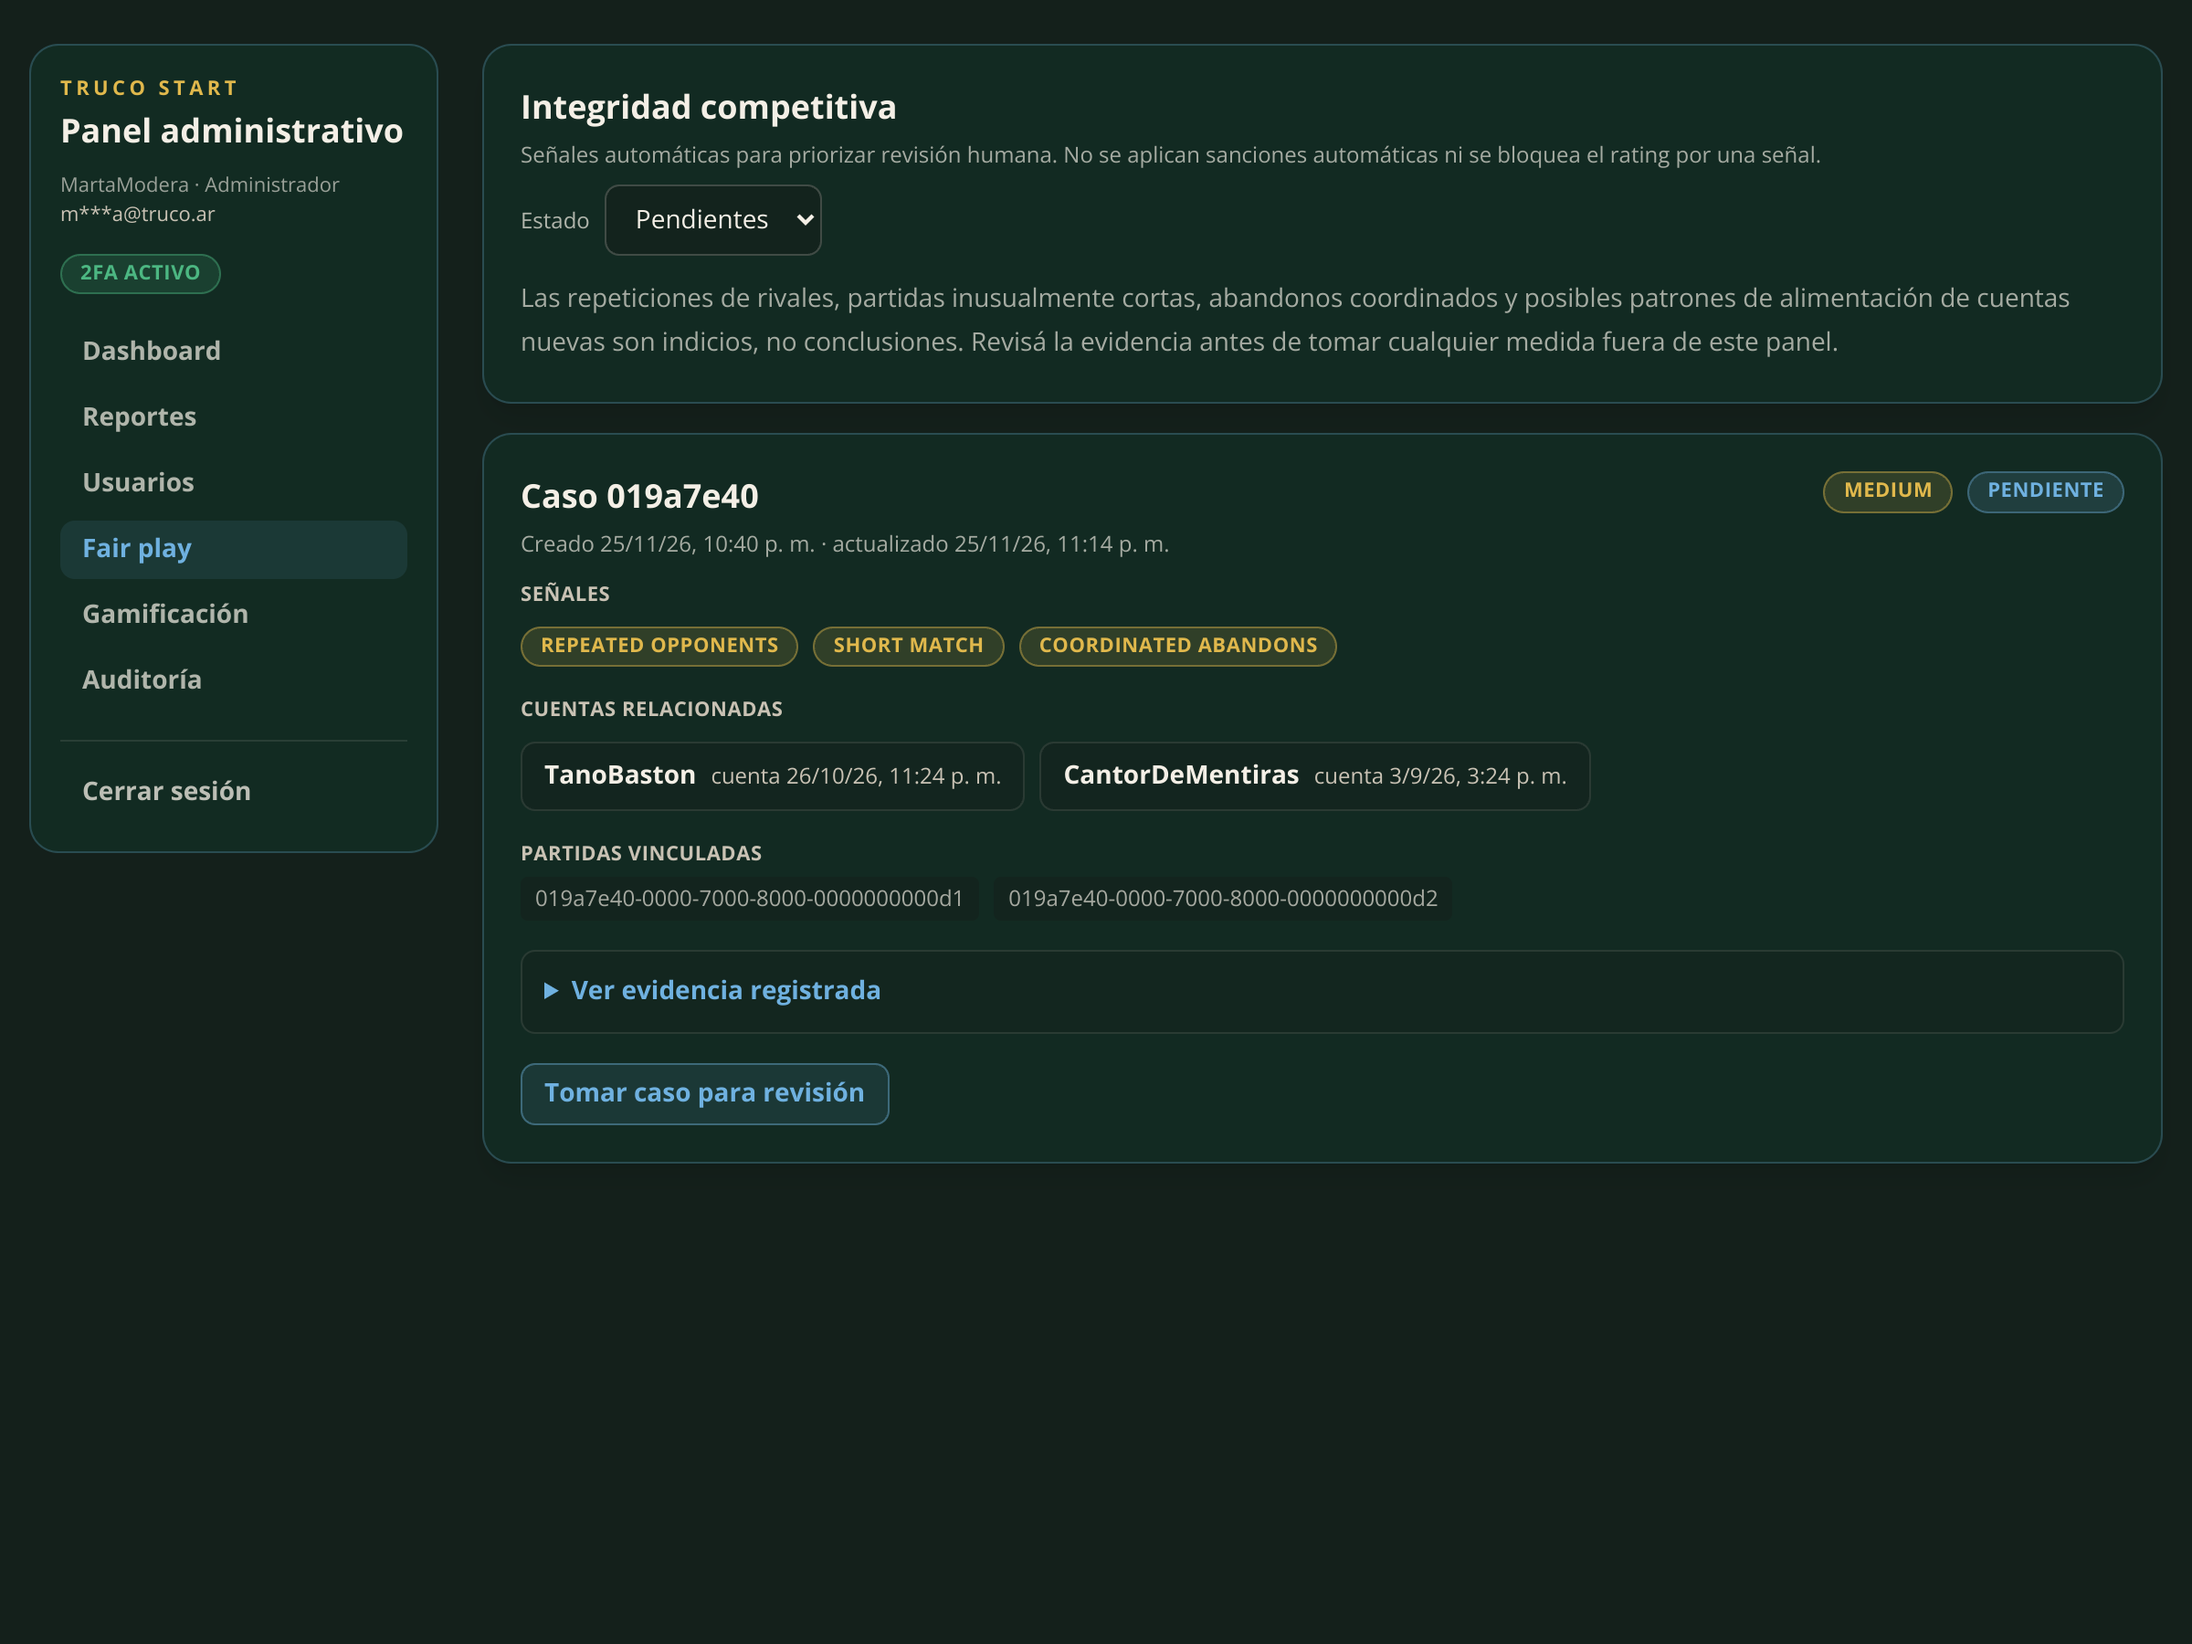
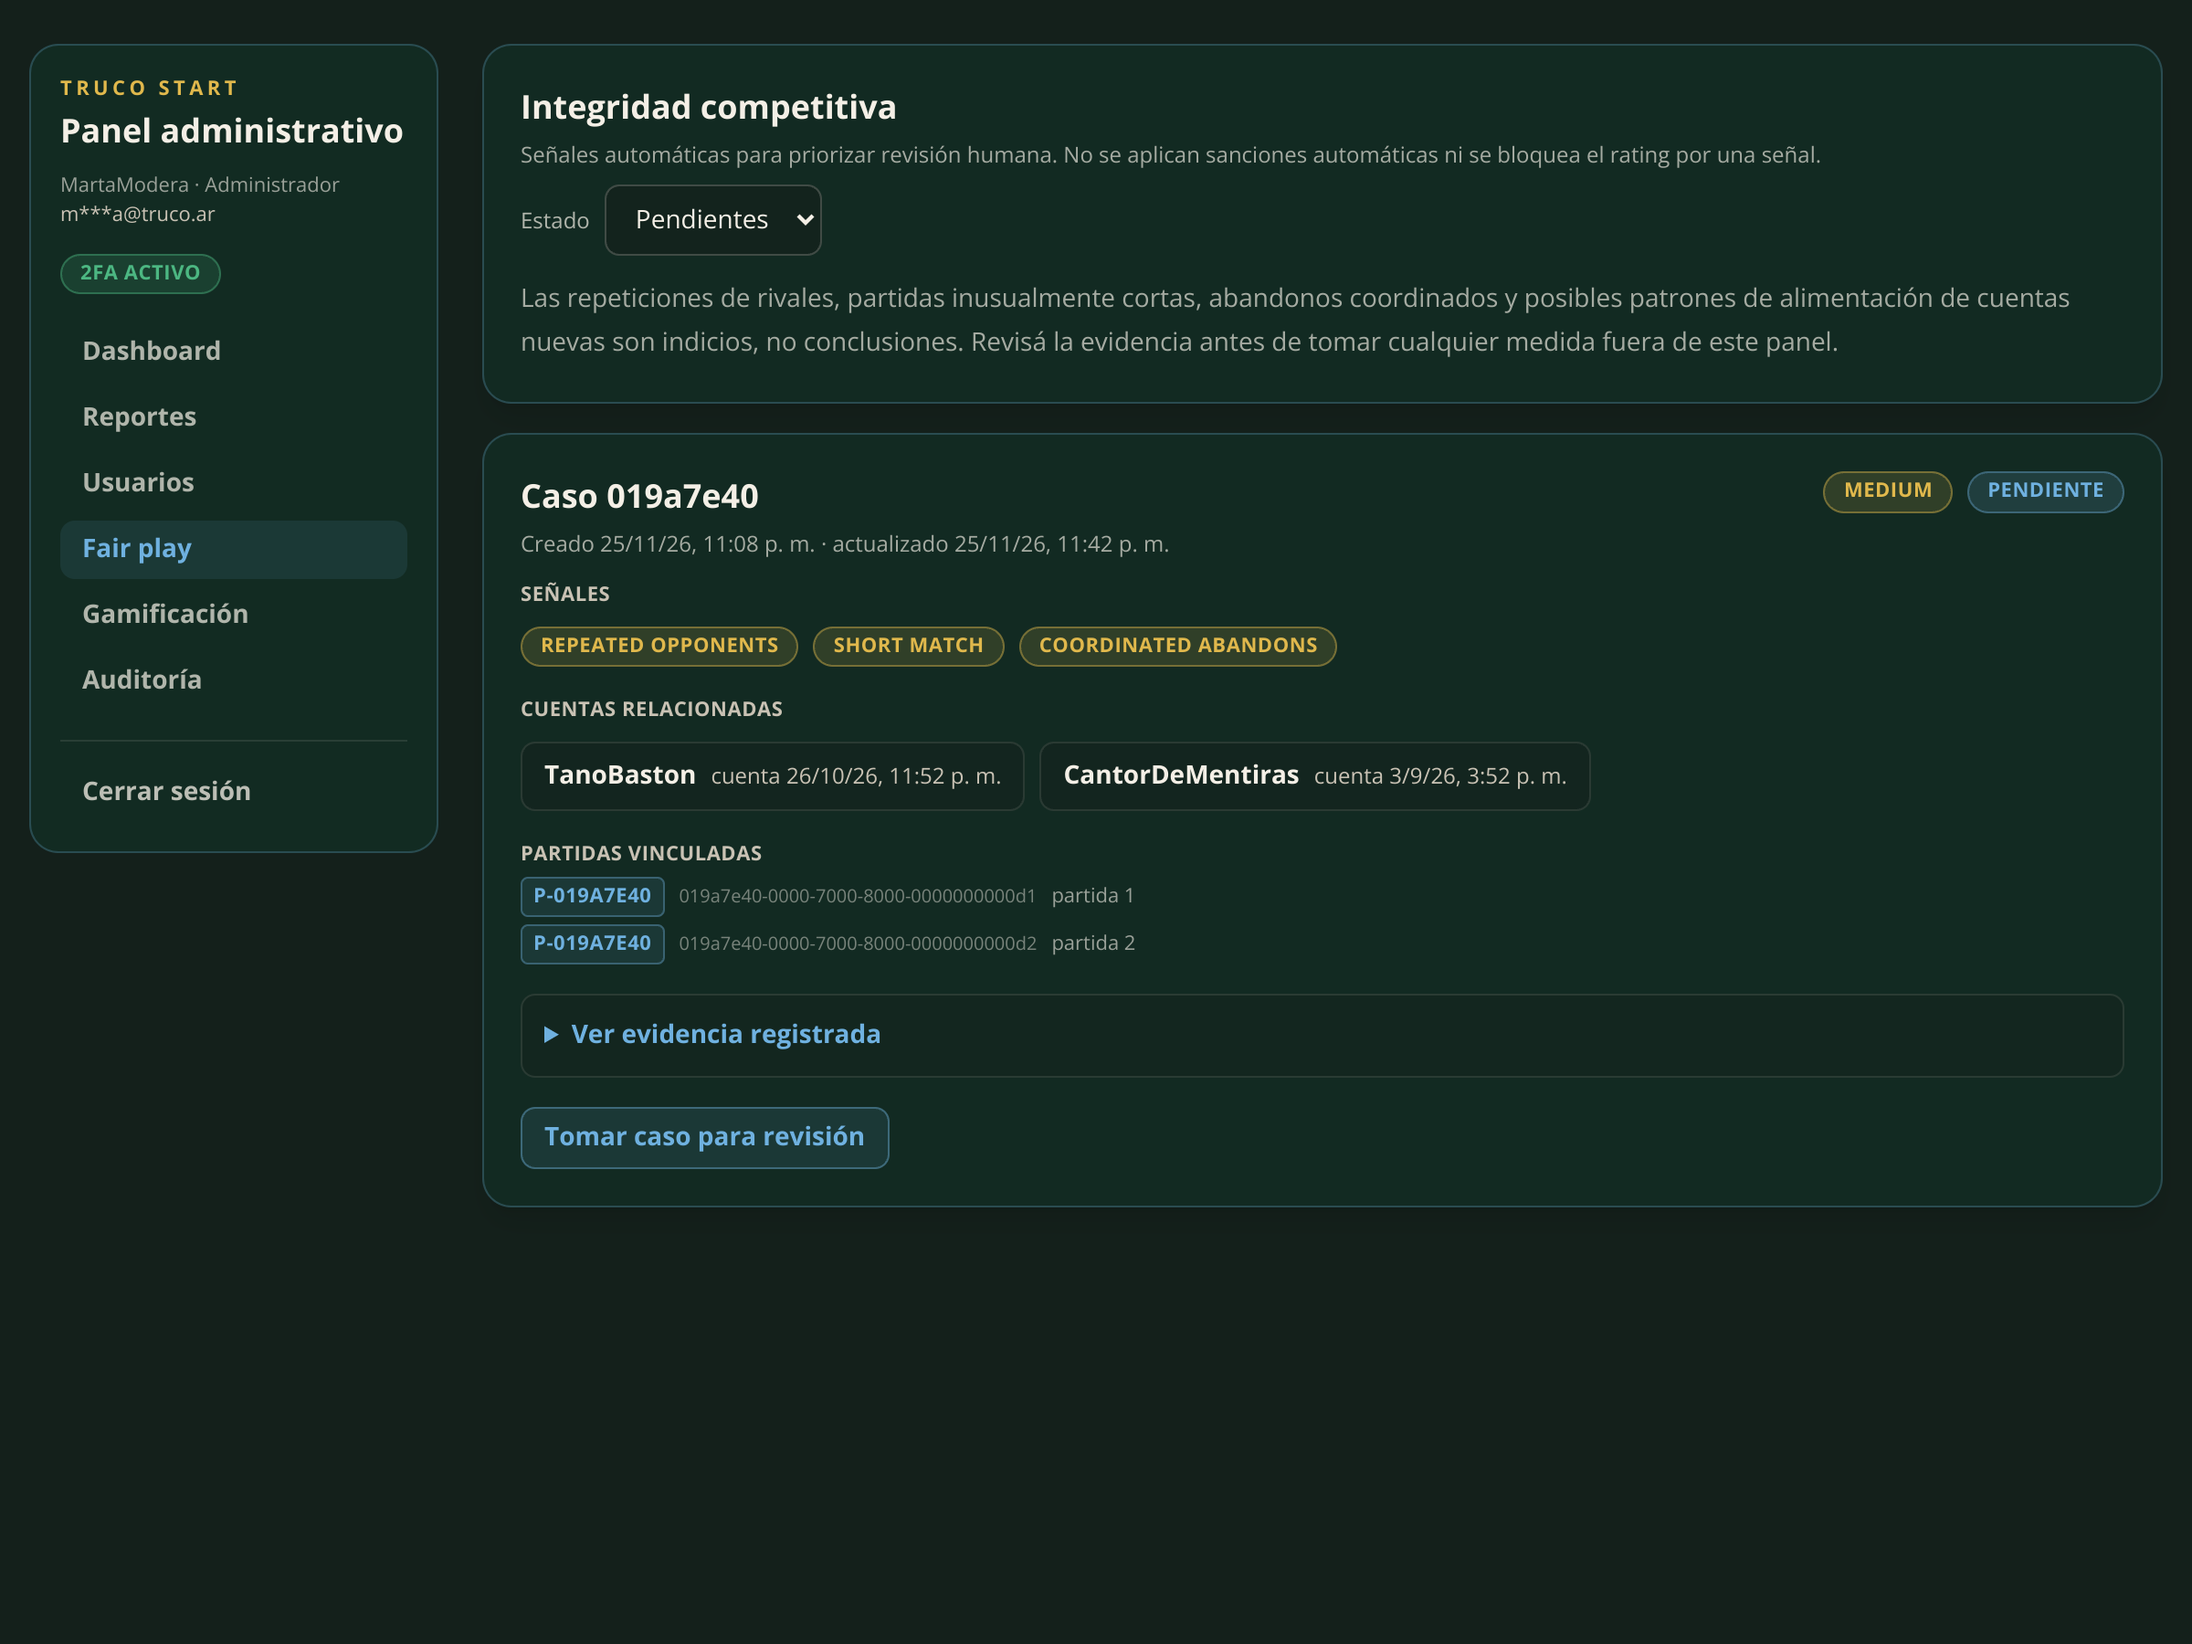
fix(admin): revisión de casos con contexto fijo e identificadores legibles
- Cabecera del caso sticky (una sola, sin duplicar el texto): caso, estado, partes y
  próxima acción quedan a la vista al recorrer evidencia, replay y acciones.
- EntityHandle: asa corta legible (P-019A7E40) junto al UUID completo y seleccionable.
  Se usa en la partida del reporte y en las partidas vinculadas de Fair Play; la
  evidencia y la auditoría siguen con el identificador íntegro.
- La próxima acción es orientativa según estado y RBAC: no habilita ni oculta nada y
  cada acción sensible conserva su confirmación y su registro.
- La captura desactiva el sticky sólo durante el fullPage para no dibujarlo partido.
- Test en admin.spec: contexto sticky, asa + UUID, cabecera no duplicada.

Changed region(s): [[0.2188, 0.5289, 0.6562, 0.7156]]

diff --git a/apps/admin/src/components/ReportDetailView.tsx b/apps/admin/src/components/ReportDetailView.tsx
@@ -14,6 +14,7 @@ import {
   Button,
   Card,
   EmptyState,
+  EntityHandle,
   Field,
   StatusPill,
   inputClass,
@@ -80,20 +81,56 @@ export function ReportDetailView({
     ? ['WARNING', 'MUTE', 'SUSPEND', 'BAN']
     : ['WARNING', 'MUTE', 'SUSPEND'];
 
+  /**
+   * Próxima acción esperable según el estado del caso y el rol. Es orientativa y no
+   * habilita ni oculta acciones: los permisos siguen mandando (RBAC) y cada acción
+   * sensible conserva su confirmación y su registro en la auditoría.
+   */
+  const nextAction = isResolved
+    ? 'Caso resuelto: queda sólo consultar el detalle y la auditoría.'
+    : report.status === 'OPEN'
+      ? canClaim
+        ? 'Tomar el caso para revisarlo y dejar constancia de la decisión.'
+        : 'Pedile a un moderador con permiso de reclamo que tome el caso.'
+      : canResolve
+        ? 'Revisar la evidencia y resolver con una nota de al menos 10 caracteres.'
+        : 'El caso está en revisión por otro moderador.';
+
   return (
     <div className="space-y-4">
-      <div className="flex flex-wrap items-center justify-between gap-2">
-        <div>
-          <p className="text-[11px] font-semibold uppercase tracking-[0.2em] text-gold">
-            Caso {report.id.slice(0, 8)}
+      {/*
+        Cabecera del caso pegada arriba: al recorrer la revisión el moderador mantiene a la
+        vista el caso, su estado y las partes sin volver a subir. Es una sola cabecera (no
+        se duplica el texto), así el lector de pantalla la anuncia una vez.
+      */}
+      <div
+        data-case-context
+        className="sticky top-0 z-10 rounded-xl border border-sky/30 bg-surface px-3 py-2 shadow-lg"
+      >
+        <div className="flex items-start justify-between gap-x-3 gap-y-2">
+          <p className="flex min-w-0 flex-wrap items-center gap-2 text-[11px] font-semibold uppercase tracking-[0.2em] text-gold">
+            <span>
+              Caso <span className="font-mono tracking-normal">{report.id.slice(0, 8)}</span>
+            </span>
+            <StatusPill tone={STATUS_TONES[report.status]}>
+              {REPORT_STATUS_LABELS_ES_AR[report.status]}
+            </StatusPill>
           </p>
-          <h1 className="font-display text-xl font-bold text-ivory sm:text-2xl">
-            {report.reporterNickname} reportó a {report.targetNickname}
-          </h1>
+          <div className="shrink-0">
+            <Button variant="ghost" onClick={actions.onBack}>
+              ← Volver a la cola
+            </Button>
+          </div>
         </div>
-        <Button variant="ghost" onClick={actions.onBack}>
-          ← Volver a la cola
-        </Button>
+        <h1 className="mt-1 font-display text-lg font-bold text-ivory sm:text-2xl">
+          {report.reporterNickname} reportó a {report.targetNickname}
+        </h1>
+        {nextAction && (
+          <p className="mt-1 text-xs text-ivory/65">
+            <span className="font-semibold uppercase tracking-wide text-muted">Próxima acción</span>{' '}
+            {nextAction}
+          </p>
+        )}
       </div>
 
       {error && (
@@ -132,10 +169,14 @@ export function ReportDetailView({
                 <dt className="text-[11px] uppercase tracking-wide text-muted">Creado</dt>
                 <dd className="text-ivory">{formatDateTime(report.createdAt)}</dd>
               </div>
-              <div>
+              <div className="sm:col-span-2">
                 <dt className="text-[11px] uppercase tracking-wide text-muted">Partida</dt>
                 <dd className="text-ivory">
-                  {report.matchId ? report.matchId : 'Sin partida asociada'}
+                  {report.matchId ? (
+                    <EntityHandle prefix="P" id={report.matchId} label="partida vinculada" />
+                  ) : (
+                    'Sin partida asociada'
+                  )}
                 </dd>
               </div>
               <div>

diff --git a/apps/admin/src/components/CompetitiveReviewView.tsx b/apps/admin/src/components/CompetitiveReviewView.tsx
@@ -1,7 +1,15 @@
 import type { CompetitiveReviewListResponse, CompetitiveReviewStatus } from '@truco/shared';
 import { useState, type FormEvent } from 'react';
 import { formatDateTime } from '../lib/format.js';
-import { Button, Card, EmptyState, Field, StatusPill, inputClass } from './primitives.js';
+import {
+  Button,
+  Card,
+  EmptyState,
+  EntityHandle,
+  Field,
+  StatusPill,
+  inputClass,
+} from './primitives.js';
 
 const STATUS_LABELS: Record<CompetitiveReviewStatus, string> = {
   OPEN: 'Pendiente',
@@ -136,10 +144,15 @@ export function CompetitiveReviewView({
                     <p className="text-[11px] font-semibold uppercase tracking-wide text-muted">
                       Partidas vinculadas
                     </p>
-                    <ul className="mt-1 flex flex-wrap gap-2 text-xs text-ivory/65">
-                      {item.matchIds.map((matchId) => (
-                        <li key={matchId} className="rounded bg-surface/60 px-2 py-1 font-mono">
-                          {matchId}
+                    {/*
+                      Asas legibles para reconocer partidas de un vistazo, con el UUID
+                      completo y seleccionable al lado: la evidencia y la auditoría siguen
+                      usando el identificador íntegro.
+                    */}
+                    <ul className="mt-1 space-y-1 text-xs text-ivory/65">
+                      {item.matchIds.map((matchId, index) => (
+                        <li key={matchId}>
+                          <EntityHandle prefix="P" id={matchId} label={`partida ${index + 1}`} />
                         </li>
                       ))}
                     </ul>

diff --git a/apps/admin/tests/admin.spec.tsx b/apps/admin/tests/admin.spec.tsx
@@ -138,6 +138,40 @@ describe('@truco/admin · panel M7', () => {
     expect(withReplay).toContain('Bloqueo permanente');
   });
 
+  it('la revisión del caso mantiene contexto, identifica la partida y no pierde el UUID', async () => {
+    const { detail } = await demoData();
+    const html = renderToStaticMarkup(
+      <ReportDetailView
+        detail={detail}
+        role="MODERATOR"
+        replay={null}
+        busy={false}
+        error={null}
+        notice={null}
+        actions={{
+          onBack: () => undefined,
+          onClaim: () => undefined,
+          onResolve: () => undefined,
+          onLoadReplay: () => undefined,
+          onSanction: () => undefined,
+          onNicknameChange: () => undefined,
+        }}
+      />,
+    );
+    // Contexto del caso siempre a la vista mientras se recorre la revisión.
+    expect(html).toContain('sticky top-0');
+    expect(html).toContain('Próxima acción');
+    // La partida se reconoce con un asa corta y el UUID íntegro sigue disponible.
+    const matchId = detail.report.matchId!;
+    expect(html).toContain(`P-${matchId.slice(0, 8).toUpperCase()}`);
+    expect(html).toContain(matchId);
+    // La cabecera del caso no se duplica (un solo h1 con las partes).
+    expect(html.match(/reportó a/g)?.length).toBe(1);
+    // Las acciones sensibles siguen presentes para el rol con permiso.
+    expect(html).toContain('Aplicar sanción');
+    expect(html).toContain('Resolver con acción');
+  });
+
   it('el rol SOPORTE no ve acciones de sanción ni de resolución', async () => {
     const { detail } = await demoData();
     const html = renderToStaticMarkup(

diff --git a/apps/admin/src/components/primitives.tsx b/apps/admin/src/components/primitives.tsx
@@ -31,6 +31,32 @@ export function Card({
   );
 }
 
+/**
+ * Identificador operativo: muestra un asa corta y legible para reconocer el registro de
+ * un vistazo y conserva el UUID completo (seleccionable) al lado. No reemplaza el
+ * identificador en la evidencia ni en la auditoría: sólo facilita la lectura.
+ */
+export function EntityHandle({
+  prefix,
+  id,
+  label,
+}: {
+  readonly prefix: string;
+  readonly id: string;
+  readonly label?: string;
+}) {
+  const shortId = id.slice(0, 8).toUpperCase();
+  return (
+    <span className="inline-flex flex-wrap items-baseline gap-x-2 gap-y-0.5">
+      <span className="rounded border border-sky/35 bg-sky/10 px-1.5 py-0.5 font-mono text-[11px] font-semibold tracking-wide text-sky">
+        {prefix}-{shortId}
+      </span>
+      <code className="break-all font-mono text-[10px] text-ivory/45">{id}</code>
+      {label && <span className="text-[11px] text-ivory/60">{label}</span>}
+    </span>
+  );
+}
+
 const TONE_CLASSES: Record<string, string> = {
   neutral: 'bg-ivory/10 text-ivory/85 border-ivory/20',
   sky: 'bg-sky/15 text-sky border-sky/35',
